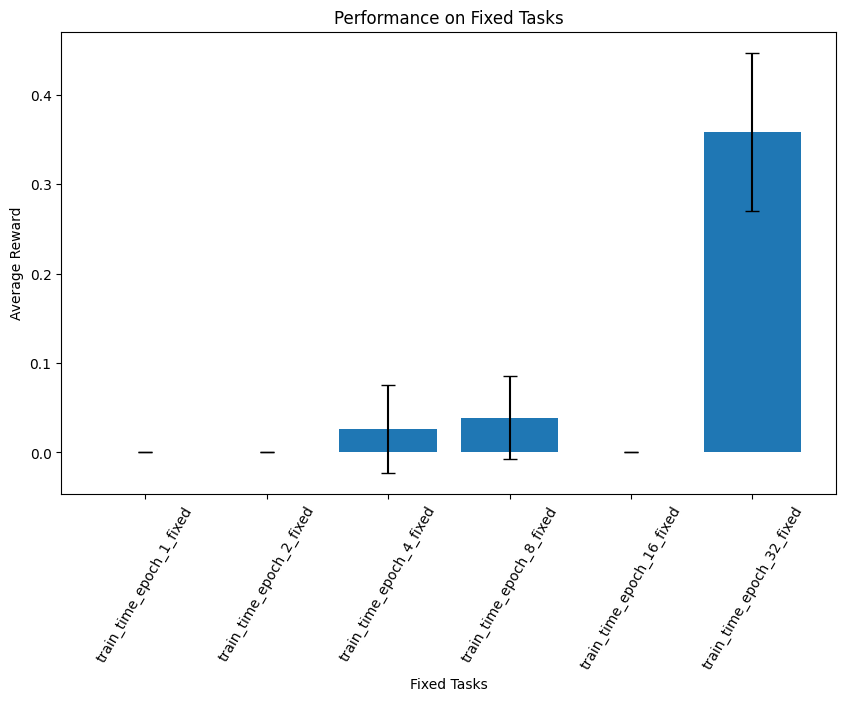
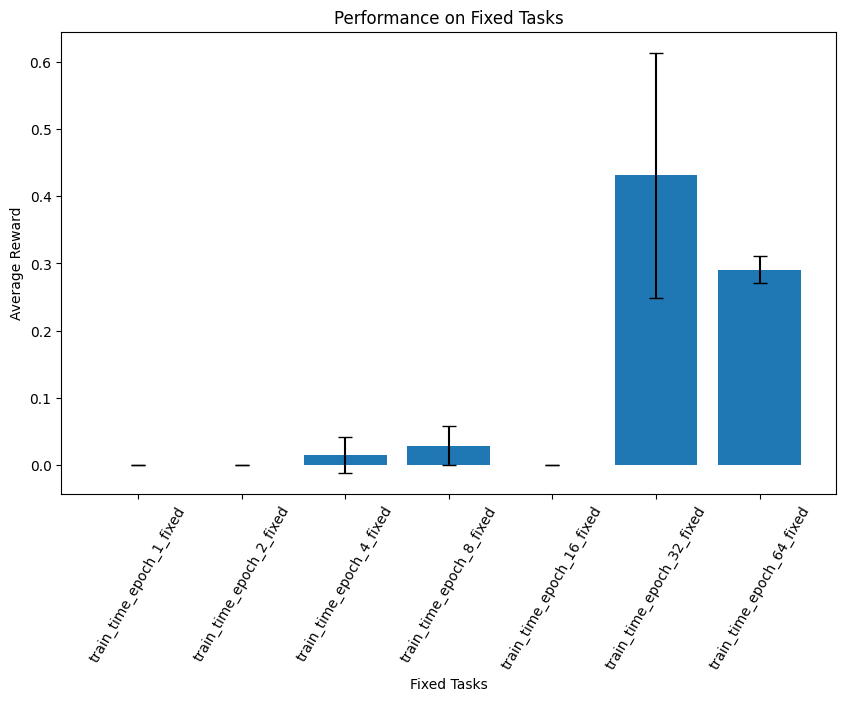
Add discussion,  clean up

diff --git a/_posts/2024-11-06-imitation-learning-beginnings.md b/_posts/2024-11-06-imitation-learning-beginnings.md
@@ -9,18 +9,18 @@ assets: /assets/images/imitation-learning-beginnings/
 preview-image: "/assets/images/imitation-learning-beginnings/imitiation_learning_beginnings.png"
 ---
 # Why imitation learning?
-Deep learning is pushing forward the frontier of tasks possible with robotic arms, making previously impossible tasks, like folding shirts or tying shoelaces, possible. Manipulation tasks are very difficult to model due to the complexity of contact forces, deformable objects, and visual appearance in the real world, which is why learning based methods, which can implicitly learn these models from lots of data, are giving state of the art results. Imitiation learning (IL), where the model learns from expert demonstrations of a task, and reinforcement learning (RL), where the model explores by trial and error, are techniques that have both had success. Imitiation learning tends to be the dominant approach, as the expert demonstrations can much more quickly and efficiently get the model to learn desired behaviour, and reward functions can be very complex to define by hand, especially as tasks get more sophisticated.
+Deep learning is pushing forward the frontier of tasks possible with robotic arms, making previously impossible tasks, like folding shirts or tying shoelaces, possible. Manipulation tasks are very difficult to model due to the complexity of contact forces, deformable objects, and visual appearance in the real world, which is why learning based methods, which can implicitly learn these models from lots of data, are giving state of the art results. Imitiation learning (IL), where the model learns from expert demonstrations of a task, and reinforcement learning (RL), where the model explores by trial and error, are techniques that have both had success. Imitiation learning tends to be the dominant approach, as the expert demonstrations can much more quickly and efficiently get the model to learn desired behaviour, and the reward functions needed for RL can be very complex to define by hand, especially as tasks get more sophisticated.
 
 Imitation learning has two main approaches: behavioural cloning (BC) and inverse reinforcement learning (IRL). BC is a simple supervised learning technique, where given the current observations of the robot and environment, the model is trained to predict the next action the expert takes. This breaks down when observations not in the data are encountered at test time, which is a common occurrence if things go a little off track - and techniques have been developed to help this. IRL involves training a network to estimate a reward function from the expert's actions, i.e. deducing the "goals" that are shaping the expert's decisions. A standard RL algorithm can then be used on this estimated reward function to find the optimal policy.
 
 
 # Goal
-To get my feet wet with imitiation learning for robotic manipulation, I decided to opt for the simplest possible approach, doing simple behavioural cloning, using a basic multilayer perceptron (MLP) as the actor network (i.e. the network learns to make decisions), and pretrained Resnet-18 networks for perception. The chosen task was simply to grasp (and optionally lift) a block in simulation, and I generated the demonstrations using a script (instead of recording human teleoperation), allowing for quick data collection and iteration.
+To get my feet wet with imitiation learning for robotic manipulation, I decided to opt for the simplest possible approach, doing simple behavioural cloning, using a basic [multilayer perceptron](https://en.wikipedia.org/wiki/Multilayer_perceptron) (MLP) as the actor network (i.e. the network learns to make decisions), and pretrained Resnet-18 networks for visual perception. The chosen task was simply to grasp (and optionally lift) a block in simulation, and I generated the demonstrations using a script (instead of recording human teleoperation), allowing for quick data collection and iteration.
 
 # Environment setup
-In previous blog posts, I have been playing around with an Xarm Lite6, and I was keen to get this project running in real life on the one I had access to. However, the [Mujoco Menagerie](https://github.com/google-deepmind/mujoco_menagerie) model did not have a gripper modelled for it, so I had to go and do a bit of CAD. Thankfully the .step files of the gripper were available from the Xarm website, so it was just a matter of separating the fingers, exporting the meshes, and setting it up in the Mujoco model XML. It ended up being more time consuming than expected (as usual) but I did gain good insight into how Mujoco's modelling works, and I was able to contribute the model back to the community.
+In previous blog posts, I have been playing around with an Xarm Lite6, and I was keen to get this project running in real life on the Lite6 I had access to. However, the [Mujoco Menagerie](https://github.com/google-deepmind/mujoco_menagerie) model did not have a gripper modelled for it, so I had to go out and add it to the model myself. This ended up being a bit more time consuming than expected (as usual) but I did gain good insight into how Mujoco's modelling works, and I was able to contribute the model back to the community.
 
-The environment was set up with [Gymnasium](https://github.com/Farama-Foundation/Gymnasium), as most IL/RL projects are, and I used [ACT](https://github.com/tonyzhaozh/act) and [LeRobot](https://github.com/huggingface/lerobot) as references. I also wanted to have it compatible with LeRobot for the future. I chose a simple red cube for the object to grasp, so that it stood out and was simple to grasp with the limited gripper, and position of the arm and the position of the cube were randomised. The gripper is a little unusual in that it is pressure actuated, so it's an all or nothing actuation which I modeled as a discrete variable with 3 states - off, closed and open. This was embedded with a 3-bit one hot encoding for the network.
+The environment was set up with [Gymnasium](https://github.com/Farama-Foundation/Gymnasium), as is common for IL/RL projects , and I took inspiration from state of the art repositories like [ACT](https://github.com/tonyzhaozh/act) and [LeRobot](https://github.com/huggingface/lerobot). I also wanted to have my environment compatible with LeRobot for the future. I chose a simple red cube for the object to grasp, so that it stood out and was simple to grasp with the limited gripper. The gripper is a little unusual in that it is actuated by compressed air, so it's an all or nothing actuation which I modeled as a discrete variable with 3 states - off, closed and open. This was embedded with a 3-bit one hot encoding for the network.
 
 - Action space: 7DOF - 6 joint angles and 1 gripper action
 - Observation space: 6 joint angles, 3rd person camera (320x240), 1st person wrist camera (320x240)
@@ -36,11 +36,11 @@ Because the task is simple, and the cube position is known in simulation, it was
 Instead of adding collision avoidance to the script, I decided to take the quick and dirty option of simply discarding/redoing any trajectories that failed. They failed around 20% of the time, so it was no big deal just to generate a few more and get on with the imitation learning.
 
 Two important steps to ensure the validity of the data were:
-1. Run an open loop replay, i.e. play the recorded actions from a trajectory in the environment, and ensure that the grasp is reproducible with the data. This is great for catching any bugs in the data collection and/or environment setup - we can't train a successful model on data that doesn't work!
+1. Run an open loop replay, i.e. play the recorded actions from a trajectory in the environment, and ensure that the grasp is reproducible with the data. This is great for catching any bugs in the data collection and/or environment setup - we can't train a successful model on data that can't reproduce the result!
 2. Plot/visualise the recorded data. Make sure the camera views take in the full scene, and the joint angles look correct. I spent a week training with no results, until I plotted the trajectories and noticed that the joint angle observations were static (a bug in the environment where I needed to do a deepcopy).
 
 
-<div style="display: flex">
+<div style="display: flex; justify-content: center;">
     <div style="margin: 2px;text-align: center;">
         <video autoplay loop controls playsinline>
         <source src="{{page.assets}}/scripted_lift_1.mp4" type="video/mp4">
@@ -56,7 +56,7 @@ Two important steps to ensure the validity of the data were:
         <!-- <div class="caption">40 random, 5 fixed, 20 epochs</div> -->
     </div>
 </div>
-<div style="display: flex">
+<div style="display: flex; justify-content: center;">
     <div style="margin: 2px;text-align: center;">
         <video autoplay loop controls playsinline>
         <source src="{{page.assets}}/scripted_lift_3.mp4" type="video/mp4">
@@ -77,7 +77,7 @@ Two important steps to ensure the validity of the data were:
 # Method
 
 - For maximum simplicity, a simple behavioural cloning approach was taken. The model is trained on individual observation-action pairs, in random order, to minimise the loss between the predicted next action and the recorded next action. The next action was chosen to be the one 0.1s ahead.
-- The model architectures tried were MLPs (usually around a size of 64x64x64), with ReLU activation. For perception, a pretrained Resnet-18 was used for each camera, with weights unfrozen.
+- The model architecture used for the actor netework was a plain MLP, usually around a size of 64x64x64, with ReLU activation. For perception, a pretrained Resnet-18 was used for each camera, with weights unfrozen.
 - Two cameras were used in the data. A third person side-on camera, and a 1st-person wrist camera fixed to the gripper.
 - Joint angles were used the observation and action space. Cartesian coordinates could be easier for the model to learn, but the inverse kinematics is susceptible to singularities, and the model should be able to learn the robot kinematics with enough demonstrations. It would be good to compare the differences in future, but state of the art approaches have been successful with both.
 - Joint angles were normalised to the range [-1, 1] for the model
@@ -92,17 +92,17 @@ Two important steps to ensure the validity of the data were:
 For brevity, I won't bother going through the results whilst I was testing the system with flaws that were obvious in hindsight. But so you don't make the same mistakes, I will briefly touch on them:
 1. As previously mentioned, the joint angle observations weren't being recorded correctly. Validate the data by running open loop replays, and plotting it!
 2. I was training on the current action instead of the next action. This directs the model's action towards the goal, stops it getting into a potential feedback loop, and is done in all IL papers.
-3. The vision encoder weights were frozen. I thought "it's already learned good visual representations, why bother training?", but thankfully [this great tutorial](https://supervised-robot-learning.github.io) explained that it performs much better when fine tuned on data from the target domain e.g. it learns to recognise the object.
+3. The vision encoder weights were frozen. I thought "it's already learned good visual representations, why bother training?", but of course fine tuning to a task always results in better performance. Thankfully [this great tutorial](https://supervised-robot-learning.github.io) pointed this out specifically for robotic manipulation, i.e. models perform much better when fine tuned on data from the target domain - it learns to recognise the object.
 
 ## Making the task more tractable
 These were some other steps I took to maximise the model's chances
-1. Using a wrist camera. This is important, and I noticed a marked improvement with how close the robot could get to the block when it came in view of the wrist camera. The 2D side cam image doesn't provide great information on the relative positioning of the gripper to the object, especially in the depth axis. Papers often find much better performance with a wrist camera. This is just extra, useful information that can only help the model.
+1. Using a wrist camera. This is important, and I noticed an improvement with how close the robot could get to the block when it came in view of the wrist camera. The 2D side cam image doesn't provide great information on the relative positioning of the gripper to the object, especially in the depth axis. Papers often find much better performance with a wrist camera. This is just extra, useful information that can (or at least, should) only help the model.
 2. Object choice. A cube is easy to grip. The larger, the better, and in a contrasting colour, to make it easier for the model to see where the object is.
 
 ## Evaluation
-The rollouts shown are controlled at 30Hz, and are each 5s long. For each experiment, 15 rollouts are done, and the average reward is recorded for each. The mean and standard deviation of the average reward across all 10 rollouts are then used to evaluate performance on each task. The videos from the rollouts are concatenated into one video, i.e. a 50s video where each 5s is a different rollout.
+The rollouts shown are controlled at 30Hz, and are each 5s long. For each experiment, 15 rollouts are done, and the average reward is recorded for each. The mean and standard deviation of the average reward across all rollouts are then used to evaluate performance on each task. The videos from the rollouts are concatenated into one video, i.e. a 75s video where each 5s is a different rollout.
 The reward structure is as follows:
-- 0-1 (continuous) - distance from grippers to object, where 0 is >10cm away, and 1 is touching; and grippers not touching ground
+- 0-1 (continuous) - distance from grippers to object, where 0 is >10cm away, 0.5 is 5cm away, and 1 is touching; and grippers not touching ground
 - 2 - one gripper touching the object and grippers not touching ground
 - 3 - two grippers touching the object and grippers not touching ground
 
@@ -113,10 +113,10 @@ And additionally for the lift task:
 But as you will see we hardly every get to 2 let alone higher.
 
 ## Experiment 1: Task/data choice
-Because we are learning to imitate the data, the data dictates the task that the policy learns.
+To state the obvious, because we are learning by imitation, the data we choose dictates the behaviour the model learns. If we train on a single trajectory, it will learn to imitate that trajectory. If we train on a diverse set of trajectories, hopefully it will learn to operate in diverse circumstances.
 
 ### Grasp and lift with randomised arm and cube position
-I started with this task because I thought it would be fairly simple. By randomising the position of the object and the arm, I hoped it would force the robot to learn how to detect the object, and how to control the arm. It turned out to be a little more difficult than expected, and I was unable to get it to perform well.
+I started with this task because I thought it would be fairly simple. By randomising the position of the object and the arm, I hoped it would force the robot to learn how to detect the object, and how to control the arm, in a generic way. It turned out to be a little more difficult than expected, and I was unable to get it to perform well.
 <div style="text-align: center;">
 <video width="50%" autoplay loop controls playsinline>
   <source src="{{page.assets}}/task_choice/grasp_and_lift.mp4" type="video/mp4">
@@ -167,43 +167,43 @@ Thus to make it easier again, I trained a model with only data of the fixed traj
 ### Mixture of random and fixed
 In order to see how the network would respond to adding in some randomised trajectories, I experimented with different blends of fixed and random trajectories in the data. Ideally, the model would be able to accomplish the fixed task easily as it is in the training data, and then adapt to some more random tasks. Unfortunately, this adaptation never occurred, and the models struggled with the fixed task at any level of randomised trajectories being blended in, as seen in these rollouts:
 
-<div style="display: flex">
-    <div style="margin: 2px;text-align: center;">
+<div style="display: flex; justify-content: center;">
+    <div style="margin: 2px; ">
         <video autoplay loop controls playsinline>
         <source src="{{page.assets}}/task_choice/grasp_fixed_task_45r_5f_epoch_20.mp4" type="video/mp4">
         Your browser does not support the video tag.
         </video>
-        <div class="caption">45 random, 5 fixed, 20 epochs</div>
+        <div class="caption" style="text-align: center;">45 random, 5 fixed, 20 epochs</div>
     </div>
-    <div style="margin: 2px;text-align: center;">
+    <div style="margin: 2px;">
         <video autoplay loop controls playsinline>
         <source src="{{page.assets}}/task_choice/grasp_fixed_task_40r_10f_epoch_19.mp4" type="video/mp4">
         Your browser does not support the video tag.
         </video>
-        <div class="caption">40 random, 5 fixed, 20 epochs</div>
+        <div class="caption" style="text-align: center;">40 random, 5 fixed, 20 epochs</div>
     </div>
 </div>
-<div style="margin: 2px;text-align: center;">
+<div style="margin: 2px; text-align: center;">
     <video autoplay loop controls playsinline>
     <source src="{{page.assets}}/task_choice/grasp_fixed_task_25r_25f_epoch_19.mp4" type="video/mp4">
     Your browser does not support the video tag.
     </video>
-    <div class="caption">25 fixed, 25 random, 20 epochs</div>
+    <div class="caption" style="text-align: center;">25 fixed, 25 random, 20 epochs</div>
 </div>
-<div style="display: flex">
-    <div style="margin: 2px;text-align: center;">
+<div style="display: flex; justify-content: center;">
+    <div style="margin: 2px; ">
         <video autoplay loop controls playsinline>
         <source src="{{page.assets}}/task_choice/grasp_fixed_task_10r_40f_epoch_20.mp4" type="video/mp4">
         Your browser does not support the video tag.
         </video>
-        <div class="caption">10 random, 40 fixed, 20 epochs</div>
+        <div class="caption" style="text-align: center;">10 random, 40 fixed, 20 epochs</div>
     </div>
-    <div style="margin: 2px;text-align: center;">
+    <div style="margin: 2px; ">
         <video autoplay loop controls playsinline>
         <source src="{{page.assets}}/task_choice/grasp_fixed_task_5r_45f_epoch_20.mp4" type="video/mp4">
         Your browser does not support the video tag.
         </video>
-        <div class="caption">5 random, 45 fixed, 20 epochs</div>
+        <div class="caption" style="text-align: center;">5 random, 45 fixed, 20 epochs</div>
     </div>
 </div>
 
@@ -213,7 +213,7 @@ This is a lot to take in at once, so here are the evaluation results. I've inclu
 </div>
 <div style="text-align: center;" class="caption"> Task choice results, with different blends of fixed and random trajectories in the dataset, at two different epochs</div>
 
-At epoch 10, the blend of 5 random, 45 fixed does slightly better than the purely fixed task (though with high variance). However, at epoch 20 this it managed to unlearn everything and get 0 reward. The purely fixed trajectory data managed to improve with more epochs, and achieved the best overall performance. The 45 random, 5 fixed task managed to have a small amount of success at epoch 20, and you can see its performance in the first of the videos above.
+At epoch 10, the blend of 5 random, 45 fixed does slightly better than the purely fixed task (though with high variance). However, at epoch 20 it managed to unlearn everything and get 0 reward. The purely fixed trajectory data managed to improve with more epochs, and achieved the best overall performance. The 45 random, 5 fixed task managed to have a small amount of success at epoch 20, and you can view its performance in the first of the videos above.
 
 Overall, the model was unfortunately unable to generalise to random tasks. Some of the numerous other experiments attempted are included in the appendix, including training on a larger dataset, for longer, and with larger networks.
 
@@ -225,13 +225,11 @@ I didn't manage to get much improvement in performance with different model arch
 <div style="text-align: center;" class="caption"> Comparing results from the standard 64x64x64 MLP with 64x64x64x64</div>
 
 
-<!-- 64^3 w dropout -->
-
 ## Training time
 Increased training time on the purely fixed dataset resulted in improving performance.
 
-<div style="display: flex">
-    <div style="margin: 2px;text-align: center;">
+<div style="display: flex; justify-content: center;">
+    <div style="margin: 2px;">
         <video autoplay loop controls playsinline>
         <source src="{{page.assets}}/train_time_fixed_task/train_time_epoch_8_fixed.mp4" type="video/mp4">
         Your browser does not support the video tag.
@@ -246,8 +244,8 @@ Increased training time on the purely fixed dataset resulted in improving perfor
         <div class="caption">16 epochs</div>
     </div>
 </div>
-<div style="display: flex">
-    <div style="margin: 2px;text-align: center;">
+<div style="display: flex; justify-content: center;">
+    <div style="margin: 2px;">
         <video autoplay loop controls playsinline>
         <source src="{{page.assets}}/train_time_fixed_task/train_time_epoch_32_fixed.mp4" type="video/mp4">
         Your browser does not support the video tag.
@@ -278,38 +276,42 @@ And the loss here. We see a strange spike in loss around 3.7k steps (~45 epochs)
 
 
 # Discussion
-_Coming soon_
 
-<!-- 
-- No work too well
-    - More demos of actual grasp perhaps
-    - Lots of noise in results, maybe due to noise in loss
+Overall, the model was able to learn a single policy ok, but extrapolating beyond that was not achieved. Observing the performance on the randomised task, it learns to lower the arm, and seems that it is sometimes able to go towards the block, which gives me hope that it has able to perceive the object to some extent. The two failure modes that seem to occur, are that it will head towards a default position (down and to the right) regardless of where the object is, or that it gets stuck in a random location. After experimenting with more data, more parameters, and longer training time, and getting no sign of improvement from any of these, it seems there is some more fundamental issue preventing learning the desired behaviour.
 
-Overall this naive approach was clearly 
+My first hypothesis is that the MLP is unable to cope with the multimodality of the task and data. There are many inividual ways to command the arm to get from one position to another, and when you combine that with training data where the positions of the arm and block are randomised, the MLP may just be learning the average of everything. This averaging behaviour is not useful - if you learned all the ways to drive from your house to the shops and took the average, you would only be learning to plow through people's houses. The loss decreases during training, so it is learning some representation of the data, but clearly not a useful one. I hypothesise that behaviour where it seems to default to going down and to the right, as seen in some of the rollouts, is evidence of this.
 
-- Future work
-    - Try ACT/BeT -->
+The model also learns and predicts based on the observations at a single time step. Because a successful trajectory involves stringing together a coherent sequence of individual actions, it would likely benefit from being trained on/acting on a sequence of observations. This is a crucial part of state of the art approaches like [ACT](https://tonyzhaozh.github.io/aloha/) and [BeT](https://sjlee.cc/vq-bet/). This could conceivably be done by feeding the model the previous _n_ observations at a time, or by using a sequential model like an LSTM or transformer.
+
+Additionally, perhaps the naive behavioural cloning technique used here is insufficient, as we see the arm occasionally get stuck in certain positions. This is probably a manifestation of a common issue with behavourial cloning, where the model encounters observations at test time which were not in the training dataset. For example, if the arm goes into a position where there is no data for it to imitate, its behaviour will be unpredictable - usually it will freeze. Methods like DAgger and inverse reinforcement learning were designed to deal with this shortcoming, so may be worthwhile avenues to explore.
+
+One other concerning thing I noticed was the irregularity of the loss curve, where for every training run, there would be spikes where the loss would increase significantly and go back down. I'm not sure why the loss would approach zero for a while, and then dramatically spike like this. Perhaps it is learning rate related? I think this may have also affected the performance of the model at different epochs, where instead of monotonically increasing performance with increased training time, some checkpoints would do worse and then get better again.
+
+# Conclusion
+While the results of this experiment were lacklustre, especially for the amount of time invested, it was still a valuable learning experience. From the simulation, to the infrastructure, to the mistakes found, to the many training runs and hyperparameter sweeps tried, it served as a way to begin to understand imitation learning and robotic manipulation from first principles. It gave me a lot of admiration for pioneers in the field, who have managed to make progress in such an open-ended and high-dimensional space.
+
+I'm excited to move on to using state of the art methods like ACT and BeT, not only for better performance, but also to glean some insights into why this approach was flawed. I'm also keen to try out reinforcement learning and see if it can improve on the results - no doubt it will have its own set of challenges.
 
 # Appendix
 A lot of effort was expended trying to get the model to work on the randomised task. Here are some of the things I tried.
 
 ### Dataset size
-I tried doubling the dataset from 50 to 100 randomised trajectories, and expected that the model would have a much easier time generalising with all this extra data. Similarly, I also tried halving the dataset to 25. I also doulbed/halved the number of epochs of training so that they are compared at the same step length, and the larger datasets do not get the unfair advantage of extra training.  For completeness, I then took the largest dataset (100) and trained it to 40 epochs so we cold also compare them at the same epoch.
+I tried doubling the dataset from 50 to 100 randomised trajectories, and expected that the model would have a much easier time generalising with all this extra data. Similarly, I also tried halving the dataset to 25. I also doubled/halved the number of epochs of training so that the models are compared at the same training step, and the larger datasets do not get the unfair advantage of extra training.  For completeness, I then took the largest dataset (100) and trained it to 40 epochs so we cold also compare them at the same epoch, giving the model more time to learn the distribution of the larger dataset.
 Alas, the results were quite inconsistent and counterintuitive.
 <div style="text-align: center;">
     <img src="{{ page.assets }}/dataset_size_results.png" style="width: 100%">
 </div>
 <div style="text-align: center;" class="caption"> Comparing results from different size datasets of randomised trajectories</div>
 
-For the random tasks, the results are all very low and with high variance, so there's probably not much meaning in them. For some reason, the smallest dataset did far and away the best on the fixed task. To me this doesn't make a lot of sense - these models are trained on randomised trajectories, so I would expect the larger dataset to be able to adapt to the fixed task better. Perhaps the small dataset got lucky with demonstrations that were somewhat similar to the fixed task, so it was able to transfer easily. Whereas, models trained on the larger dataset are just unable to learn the distribution well, thus fail at everything. This got me thinking that perhaps a larger network was needed...
+For the random tasks, the average rewards are all very low and with high variance, so there's probably no indicators of any performance. For some reason, the smallest dataset did far and away the best on the fixed task. To me this doesn't make a lot of sense - these models are trained on randomised trajectories, so I would expect a model trained on a larger dataset to be able to adapt to any task, including the fixed task, better. Perhaps the small dataset got lucky with demonstrations that were somewhat similar to the fixed task, so it was able to transfer more easily. Whereas, models trained on the larger dataset are just unable to learn the distribution well, thus fail at everything. This got me thinking that perhaps a larger network was needed...
 
 
 ### Network architecture
-In the case that learning was limited by the network size, I tried adding up to two more hidden layers i.e. from 64x64x64 to 64^4 and 64^5. I then trained them on the dataset of 50 randomised trajectories, and compares the results on the random and the fixed task, at 20 and 40 epochs.
+In the case that learning was limited by the network size, I tried adding up to two more hidden layers i.e. from 64x64x64 to 64^4 and 64^5. I then trained them on the dataset of 50 randomised trajectories, and compared the results on the random and the fixed task, at 20 and 40 epochs.
 <div style="text-align: center;">
     <img src="{{ page.assets }}/network_arch_random_results.png" style="width: 100%">
 </div>
-<div style="text-align: center;" class="caption"> Comparing results from different size datasets of randomised trajectories</div>
+<div style="text-align: center;" class="caption"> Comparing results from adding hidden layers to the model </div>
 There was no clear result here, results were poor across the board.
 
 ### All in
@@ -319,7 +321,7 @@ Just to give the randomised task the best chance, I put together the largest dat
 </div>
 <div style="text-align: center;" class="caption"> The combination of largest network, largest dataset across its epochs</div>
 
-All rewards are very low and with high variance, so it seems nothing is really being learned.
+All rewards are very low and with high variance, so it seems the learned policy is not useful, although the loss is clearly decreasing overall.
 
 <div style="text-align: center;">
     <img src="{{ page.assets }}/all_in_loss.png" style="width: 100%">
@@ -359,3 +361,9 @@ Here are some samples:
         <div class="caption">60 epochs</div>
     </div>
 </div>
+
+# Code
+
+The code for the everything is available here: [https://github.com/eufrizz/robotic_manipulation](https://github.com/eufrizz/robotic_manipulation).
+
+I haven't taken the time to make it clean and readable to a release-ready standard, because that takes time and I doubt anyone is going to want to recreate this very average result. But if someone is interested, I'm happy to clean it up and give some pointers, just shoot me a message.
